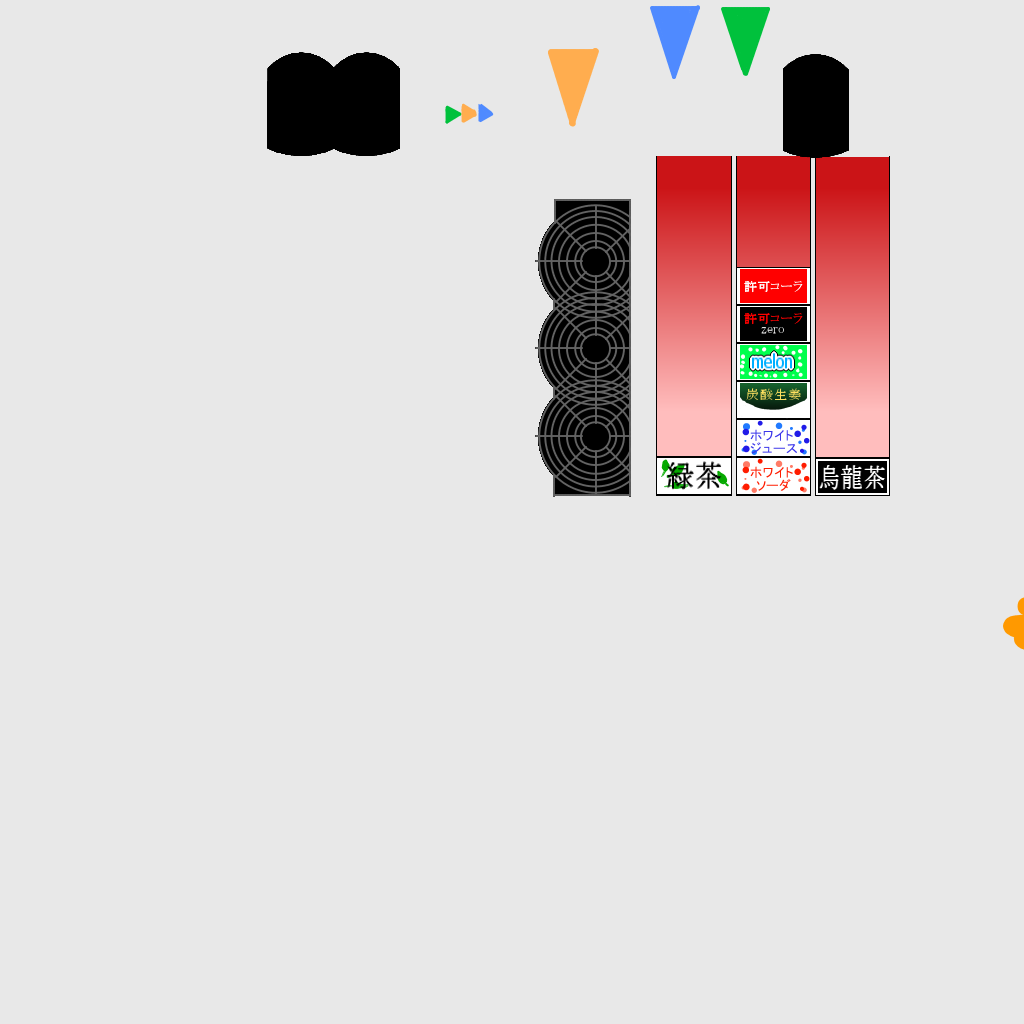
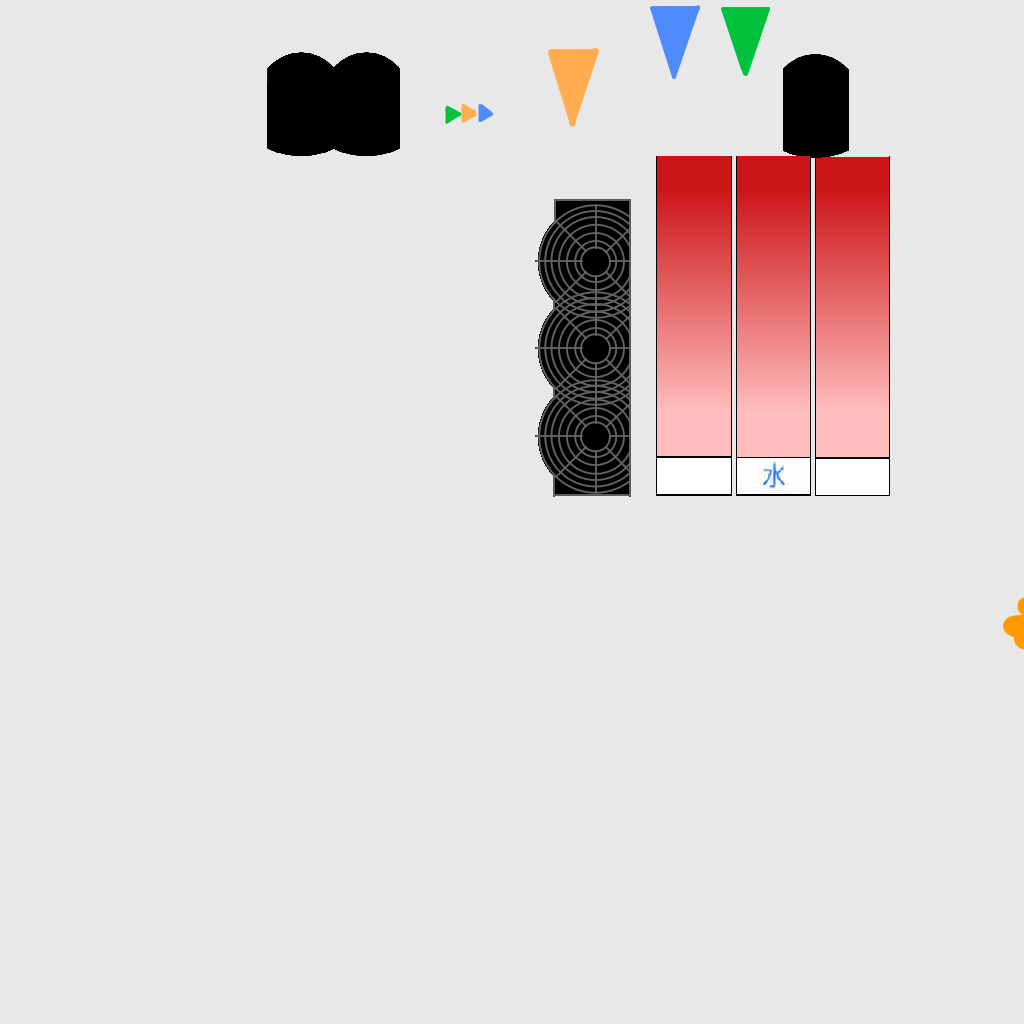
カメラに揺れを実装

Changed region(s): [[0.625, 0.25, 0.875, 0.5]]

diff --git a/3DBaseframework/Src/Application/GameObject/GameStart/GameStartConst.h b/3DBaseframework/Src/Application/GameObject/GameStart/GameStartConst.h
@@ -2,34 +2,37 @@
 
 // ===================================================
 // ゲーム開始演出（イントロ）の定数
-//  「3 → 2 → 1 → start（＝『水をドンピシャで入れろ！！！』）」の順で
-//  音声＋画像を出してから、注水を解禁する。
+//  「start（水をドンピシャで入れろ）→ 3 → 2 → 1 → hajime（始め）」の順で
+//  各フェーズの画像を全画面表示＋音声を鳴らし、終わったら注水を解禁する。
 //  ※画像/音声はここのパスを差し替えるだけで変更できる（空文字なら出さない/鳴らさない）。
 // ===================================================
 namespace GameStartConst
 {
 	// 各フェーズの長さ（フレーム数。60fps基準）
-	inline constexpr int kCountFrames = 55;		// 数字ひとつぶん（約0.9秒）
-	inline constexpr int kStartFrames = 90;		// 「水をドンピシャで入れろ」表示（約1.5秒）
+	inline constexpr int kStartFrames  = 150;	// start（水をドンピシャで入れろ）表示（2.5秒ディレイ）
+	inline constexpr int kCountFrames  = 55;	// 数字ひとつぶん（約0.9秒）
+	inline constexpr int kHajimeFrames = 75;	// hajime（始め）表示（約1.25秒）
 
 	// -------- 画像パス（各フェーズで全画面表示） --------
+	inline constexpr const char* kStartImage  = "Asset/Textures/start.png";	// 水をドンピシャで入れろ
 	inline constexpr const char* kCount3Image = "Asset/Textures/3.png";
 	inline constexpr const char* kCount2Image = "Asset/Textures/2.png";
 	inline constexpr const char* kCount1Image = "Asset/Textures/1.png";
-	inline constexpr const char* kStartImage  = "Asset/Textures/start.png";	// 水をドンピシャで入れろ
+	inline constexpr const char* kHajimeImage = "Asset/Textures/hajime.png";	// 始め
 
 	// 全画面を少し暗くする暗幕（画像に透過がある場合に背後を暗くして見やすく）
 	inline constexpr const char* kDarkImage  = "Asset/Textures/kuro.png";
 	inline constexpr float       kDarkAlpha  = 0.35f;
 
 	// -------- 音声パス（空文字＝鳴らさない。存在しないファイルを鳴らすと落ちるので注意） --------
+	inline constexpr const char* kStartAudio  = "Asset/Data/Audio/start.mp3";	// 水をドンピシャで入れろ
 	inline constexpr const char* kCount3Audio = "Asset/Data/Audio/3.mp3";
 	inline constexpr const char* kCount2Audio = "Asset/Data/Audio/2.mp3";
 	inline constexpr const char* kCount1Audio = "Asset/Data/Audio/1.mp3";
-	inline constexpr const char* kStartAudio  = "Asset/Data/Audio/start.mp3";	// 「水をドンピシャで入れろ」
+	inline constexpr const char* kHajimeAudio = "Asset/Data/Audio/hajime.mp3";	// 始め
 
 	// スプライト表示サイズ（中心原点・ピクセル）。ウィンドウは1280x720なので全画面で表示。
-	inline constexpr int kImageWidth  = 1280;	// 全画面（WindowSettings.csv と合わせる）
+	inline constexpr int kImageWidth  = 1280;
 	inline constexpr int kImageHeight = 720;
 	inline constexpr int kOverlayWidth  = 2400;	// 暗幕（全画面を覆う十分な大きさ）
 	inline constexpr int kOverlayHeight = 1600;

diff --git a/3DBaseframework/Src/Application/GameObject/Tension/Tension.cpp b/3DBaseframework/Src/Application/GameObject/Tension/Tension.cpp
@@ -4,6 +4,7 @@
 #include "../Water/Water.h"
 #include "../Cup/CupConst.h"
 #include "../GameStart/GameStart.h"
+#include <cmath>	// 手持ちカメラ風の揺れ（sin/cos）
 
 void Tension::Init()
 {
@@ -44,28 +45,40 @@ void Tension::Update()
 	if (m_muffled) { m_muffled->SetVolume(gain * (1.0f - m_intensity)); }	// 籠り：最初が主、徐々に消える
 	if (m_heart)   { m_heart->SetVolume(gain * m_intensity); }				// 普通：溜まるほど主に
 
-	// カメラをコップへズームイン（intensity ぶんだけ近づける）
+	// 手持ちカメラ風の揺れ：周波数の違う正弦波を重ねて不規則に見せる。
+	//  緊張が高いほど（目標に近づくほど）揺れを少し大きくする。
+	m_swayTime += TensionConst::kSwaySpeed;
+	const float swayGain = 1.0f + (TensionConst::kSwayIntensityGain - 1.0f) * m_intensity;
+	const float swayX = (std::sinf(m_swayTime * 1.00f) * 0.6f
+					   + std::sinf(m_swayTime * 2.30f) * 0.4f) * TensionConst::kSwayAmpX * swayGain;
+	const float swayY = (std::cosf(m_swayTime * 1.30f) * 0.6f
+					   + std::sinf(m_swayTime * 3.10f) * 0.4f) * TensionConst::kSwayAmpY * swayGain;
+
+	// カメラをコップへズームイン（intensity ぶんだけ近づける）＋手持ち揺れ
 	if (auto cam = m_wpCamera.lock())
 	{
 		const float z = -(CupConst::kCameraDistanceZ - m_intensity * TensionConst::kZoomAmount);
-		cam->SetPos({ CupConst::kCenterX, 0.0f, z });
+		cam->SetPos({ CupConst::kCenterX + swayX, swayY, z });
 	}
 }
 
 void Tension::DrawSprite()
 {
-	// 上下の黒帯（レターボックス）。intensity が上がるほど縮む。
-	const float barH = TensionConst::kMaxBarHeight * (1.0f - m_intensity);
-	if (barH < 0.5f) { return; }	// 完全に縮んだら描かない
+	// 上下の黒帯（レターボックス）。開始は薄く、目標に近づく（intensity↑）ほど閉じて太くなる。
+	const float barH = TensionConst::kMinBarHeight
+		+ (TensionConst::kMaxBarHeight - TensionConst::kMinBarHeight) * m_intensity;
+	if (barH < 0.5f) { return; }
 
 	KdSpriteShader& sprite = KdShaderManager::Instance().m_spriteShader;
 	KdShaderManager::Instance().ChangeBlendState(KdBlendState::Alpha);
 
 	// ウィンドウは1280x720。中心原点・+Y上。上端 y=+360／下端 y=-360。
-	const int h = static_cast<int>(barH);
-	const int topY = static_cast<int>(360.0f - barH * 0.5f);	// 上帯の中心Y
-	sprite.DrawTex(&m_blackTex, 0,  topY, TensionConst::kBarWidth, h);	// 上
-	sprite.DrawTex(&m_blackTex, 0, -topY, TensionConst::kBarWidth, h);	// 下
+	//  画面外へ kBarOvershoot ぶんはみ出させて描く（整数丸めで端に1pxの隙間ができるのを防ぐ）。
+	const float over = TensionConst::kBarOvershoot;
+	const int   h    = static_cast<int>(barH + over);
+	const int   cY   = static_cast<int>(TensionConst::kScreenHalfHeight - barH * 0.5f + over * 0.5f);
+	sprite.DrawTex(&m_blackTex, 0,  cY, TensionConst::kBarWidth, h);	// 上
+	sprite.DrawTex(&m_blackTex, 0, -cY, TensionConst::kBarWidth, h);	// 下
 
 	KdShaderManager::Instance().UndoBlendState();
 }

diff --git a/3DBaseframework/Src/Application/GameObject/GameStart/GameStart.cpp b/3DBaseframework/Src/Application/GameObject/GameStart/GameStart.cpp
@@ -17,22 +17,23 @@ namespace
 void GameStart::Init()
 {
 	m_darkTex.Load(GameStartConst::kDarkImage);
+	m_startTex.Load(GameStartConst::kStartImage);
 	m_tex3.Load(GameStartConst::kCount3Image);
 	m_tex2.Load(GameStartConst::kCount2Image);
 	m_tex1.Load(GameStartConst::kCount1Image);
-	m_startTex.Load(GameStartConst::kStartImage);
+	m_hajimeTex.Load(GameStartConst::kHajimeImage);
 
-	// 3 から開始（3→2→1→start の順）
-	m_phase = Phase::Count3;
+	// start（水をドンピシャで入れろ）から開始（start→3→2→1→hajime）
+	m_phase = Phase::Start;
 	m_frame = 0;
-	PlayIfSet(GameStartConst::kCount3Audio);
+	PlayIfSet(GameStartConst::kStartAudio);
 }
 
 void GameStart::Restart()
 {
-	m_phase = Phase::Count3;
+	m_phase = Phase::Start;
 	m_frame = 0;
-	PlayIfSet(GameStartConst::kCount3Audio);
+	PlayIfSet(GameStartConst::kStartAudio);
 }
 
 // フェーズ切替＝そのフェーズの音声を頭から鳴らす
@@ -43,9 +44,10 @@ void GameStart::EnterPhase(Phase next)
 
 	switch (next)
 	{
+	case Phase::Count3:	PlayIfSet(GameStartConst::kCount3Audio);	break;
 	case Phase::Count2:	PlayIfSet(GameStartConst::kCount2Audio);	break;
 	case Phase::Count1:	PlayIfSet(GameStartConst::kCount1Audio);	break;
-	case Phase::Start:	PlayIfSet(GameStartConst::kStartAudio);	break;	// 水をドンピシャで入れろ
+	case Phase::Hajime:	PlayIfSet(GameStartConst::kHajimeAudio);	break;
 	default:												break;
 	}
 }
@@ -58,6 +60,9 @@ void GameStart::Update()
 
 	switch (m_phase)
 	{
+	case Phase::Start:
+		if (m_frame >= GameStartConst::kStartFrames) { EnterPhase(Phase::Count3); }
+		break;
 	case Phase::Count3:
 		if (m_frame >= GameStartConst::kCountFrames) { EnterPhase(Phase::Count2); }
 		break;
@@ -65,10 +70,10 @@ void GameStart::Update()
 		if (m_frame >= GameStartConst::kCountFrames) { EnterPhase(Phase::Count1); }
 		break;
 	case Phase::Count1:
-		if (m_frame >= GameStartConst::kCountFrames) { EnterPhase(Phase::Start); }
+		if (m_frame >= GameStartConst::kCountFrames) { EnterPhase(Phase::Hajime); }
 		break;
-	case Phase::Start:
-		if (m_frame >= GameStartConst::kStartFrames) { m_phase = Phase::Done; }	// 注水解禁
+	case Phase::Hajime:
+		if (m_frame >= GameStartConst::kHajimeFrames) { m_phase = Phase::Done; }	// 注水解禁
 		break;
 	default:
 		break;
@@ -87,14 +92,15 @@ void GameStart::DrawSprite()
 	sprite.DrawTex(&m_darkTex, 0, 0,
 		GameStartConst::kOverlayWidth, GameStartConst::kOverlayHeight, nullptr, &dark);
 
-	// 現在のフェーズの画像を全画面表示（3→2→1→start）
+	// 現在のフェーズの画像を全画面表示（start→3→2→1→hajime）
 	KdTexture* tex = nullptr;
 	switch (m_phase)
 	{
+	case Phase::Start:	tex = &m_startTex;	break;
 	case Phase::Count3:	tex = &m_tex3;		break;
 	case Phase::Count2:	tex = &m_tex2;		break;
 	case Phase::Count1:	tex = &m_tex1;		break;
-	case Phase::Start:	tex = &m_startTex;	break;
+	case Phase::Hajime:	tex = &m_hajimeTex;	break;
 	default:									break;
 	}
 	if (tex)

diff --git a/3DBaseframework/Src/Application/GameObject/Tension/TensionConst.h b/3DBaseframework/Src/Application/GameObject/Tension/TensionConst.h
@@ -17,12 +17,25 @@ namespace TensionConst
 	// レターボックス（上下の黒帯）用の黒画像
 	inline constexpr const char* kBlackImage = "Asset/Textures/kuro.png";
 
-	// intensity=0（目標から遠い）のときの黒帯の高さ(px)。intensityが上がるほど縮む→0。
-	inline constexpr float kMaxBarHeight = 110.0f;
+	// 黒帯（レターボックス）の高さ(px)。開始(intensity=0)は薄く、目標に近づく(1)ほど閉じて太くなる。
+	inline constexpr float kMinBarHeight = 24.0f;	// 開始時＝薄い帯
+	inline constexpr float kMaxBarHeight = 130.0f;	// 目標付近＝閉じた太い帯
 	inline constexpr int   kBarWidth     = 1400;	// 帯の横幅（1280ウィンドウを覆う）
+
+	// 画面の半分の高さ(px)。ウィンドウ720の半分＝上端+360／下端-360。
+	inline constexpr float kScreenHalfHeight = 360.0f;
+	// 帯を画面外へはみ出させる量(px)。整数丸めで端に1pxの隙間ができるのを防ぐ。
+	inline constexpr float kBarOvershoot = 8.0f;
 
 	// カメラのズーム量（ワールド単位）。intensityで最大この距離ぶんコップへ寄る。
 	inline constexpr float kZoomAmount = 3.0f;
+
+	// 手持ちカメラ風の揺れ。複数の正弦波を重ねて不規則に見せる（ワールド単位）。
+	inline constexpr float kSwayAmpX  = 0.055f;	// 横揺れの大きさ
+	inline constexpr float kSwayAmpY  = 0.040f;	// 縦揺れの大きさ
+	inline constexpr float kSwaySpeed = 0.025f;	// 揺れの速さ（1フレームあたりの位相。小さいほどゆっくり）
+	// 緊張が高いほど揺れを増やす倍率（intensity=1でこの倍）。1.0で一定。
+	inline constexpr float kSwayIntensityGain = 1.8f;
 
 	// 心臓音の音量：開始（空）は小さく、fillが溜まるほど大きくする。
 	inline constexpr float kHeartVolMin = 0.25f;	// 開始時（intensity=0）の音量（小さい）

diff --git a/3DBaseframework/Src/Application/GameObject/GameStart/GameStart.h b/3DBaseframework/Src/Application/GameObject/GameStart/GameStart.h
@@ -20,13 +20,14 @@ public:
 	void Restart();
 
 private:
-	// 演出の進行フェーズ（3→2→1→start の順）
+	// 演出の進行フェーズ（start → 3 → 2 → 1 → hajime の順）
 	enum class Phase
 	{
+		Start,			// start（「水をドンピシャで入れろ！！！」）
 		Count3,			// 3
 		Count2,			// 2
 		Count1,			// 1
-		Start,			// start.mp3（「水をドンピシャで入れろ！！！」＋画像）
+		Hajime,			// 始め！
 		Done,			// 終了（注水解禁）
 	};
 
@@ -38,8 +39,9 @@ private:
 
 	// 表示画像（各フェーズで全画面表示）
 	KdTexture m_darkTex;		// 暗幕
+	KdTexture m_startTex;	// start（水をドンピシャで入れろ）
 	KdTexture m_tex3;		// 「3」
 	KdTexture m_tex2;		// 「2」
 	KdTexture m_tex1;		// 「1」
-	KdTexture m_startTex;	// start（水をドンピシャで入れろ）
+	KdTexture m_hajimeTex;	// 始め！
 };

diff --git a/3DBaseframework/Src/Application/GameObject/Tension/Tension.h b/3DBaseframework/Src/Application/GameObject/Tension/Tension.h
@@ -42,4 +42,7 @@ private:
 
 	// 演出の強さ（0=遠い〜1=目標付近）。滑らかに追従させる。
 	float m_intensity = 0.0f;
+
+	// 手持ちカメラ風の揺れの位相（毎フレーム進める）
+	float m_swayTime = 0.0f;
 };
